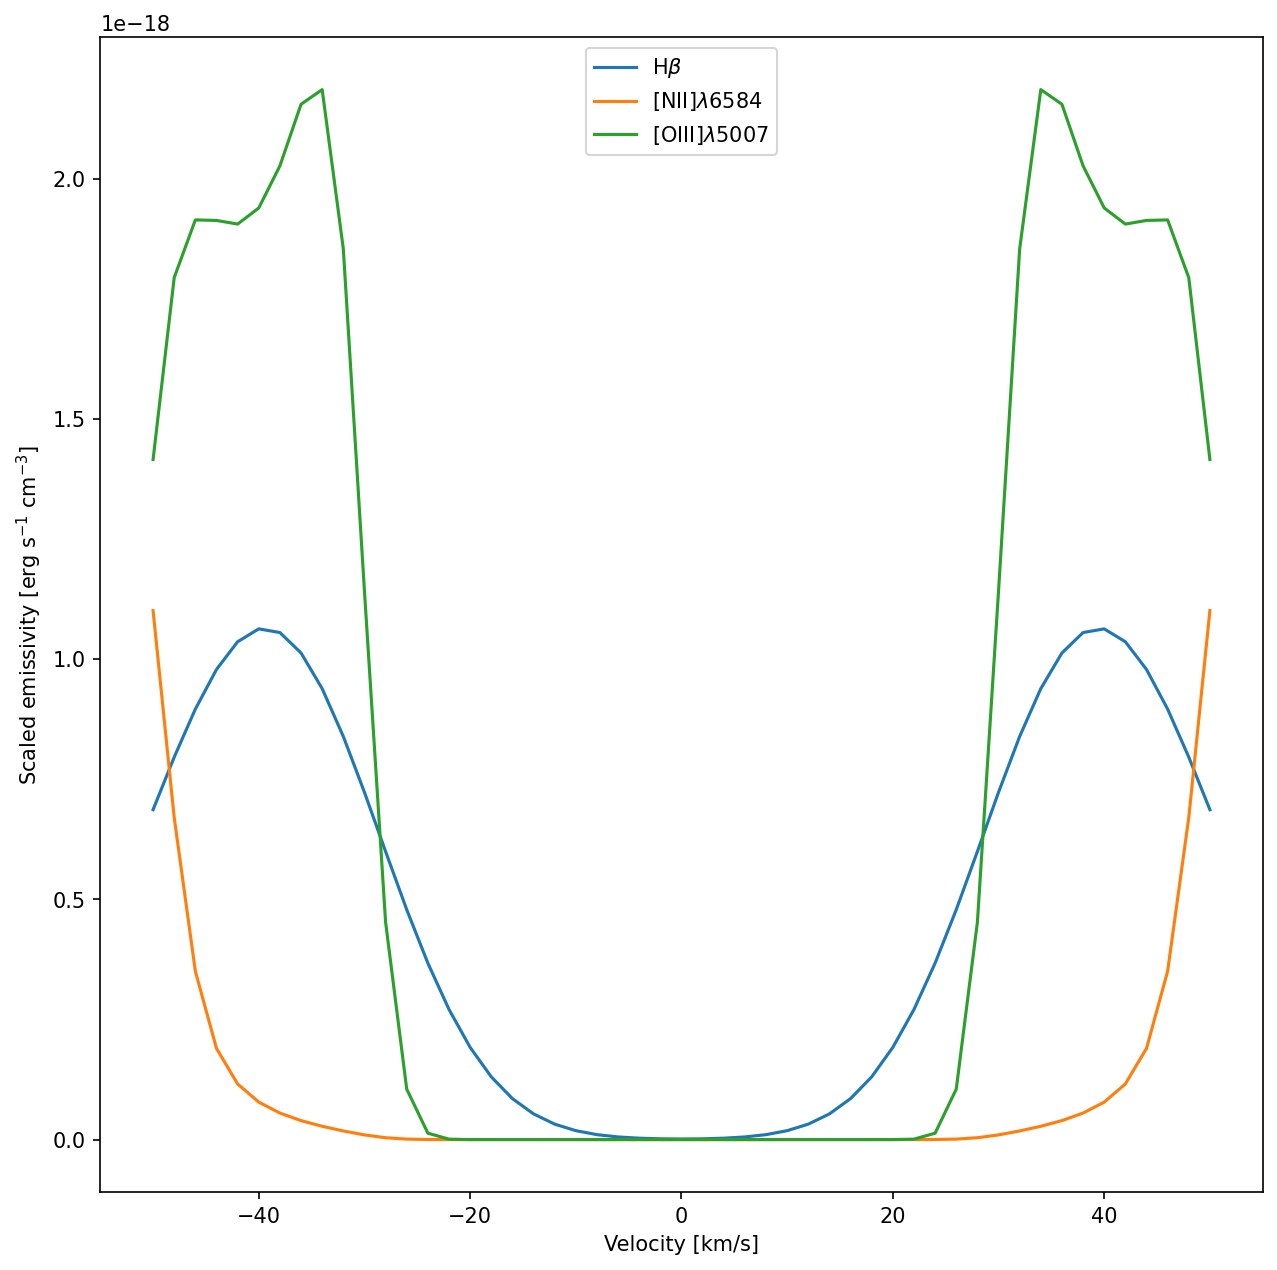
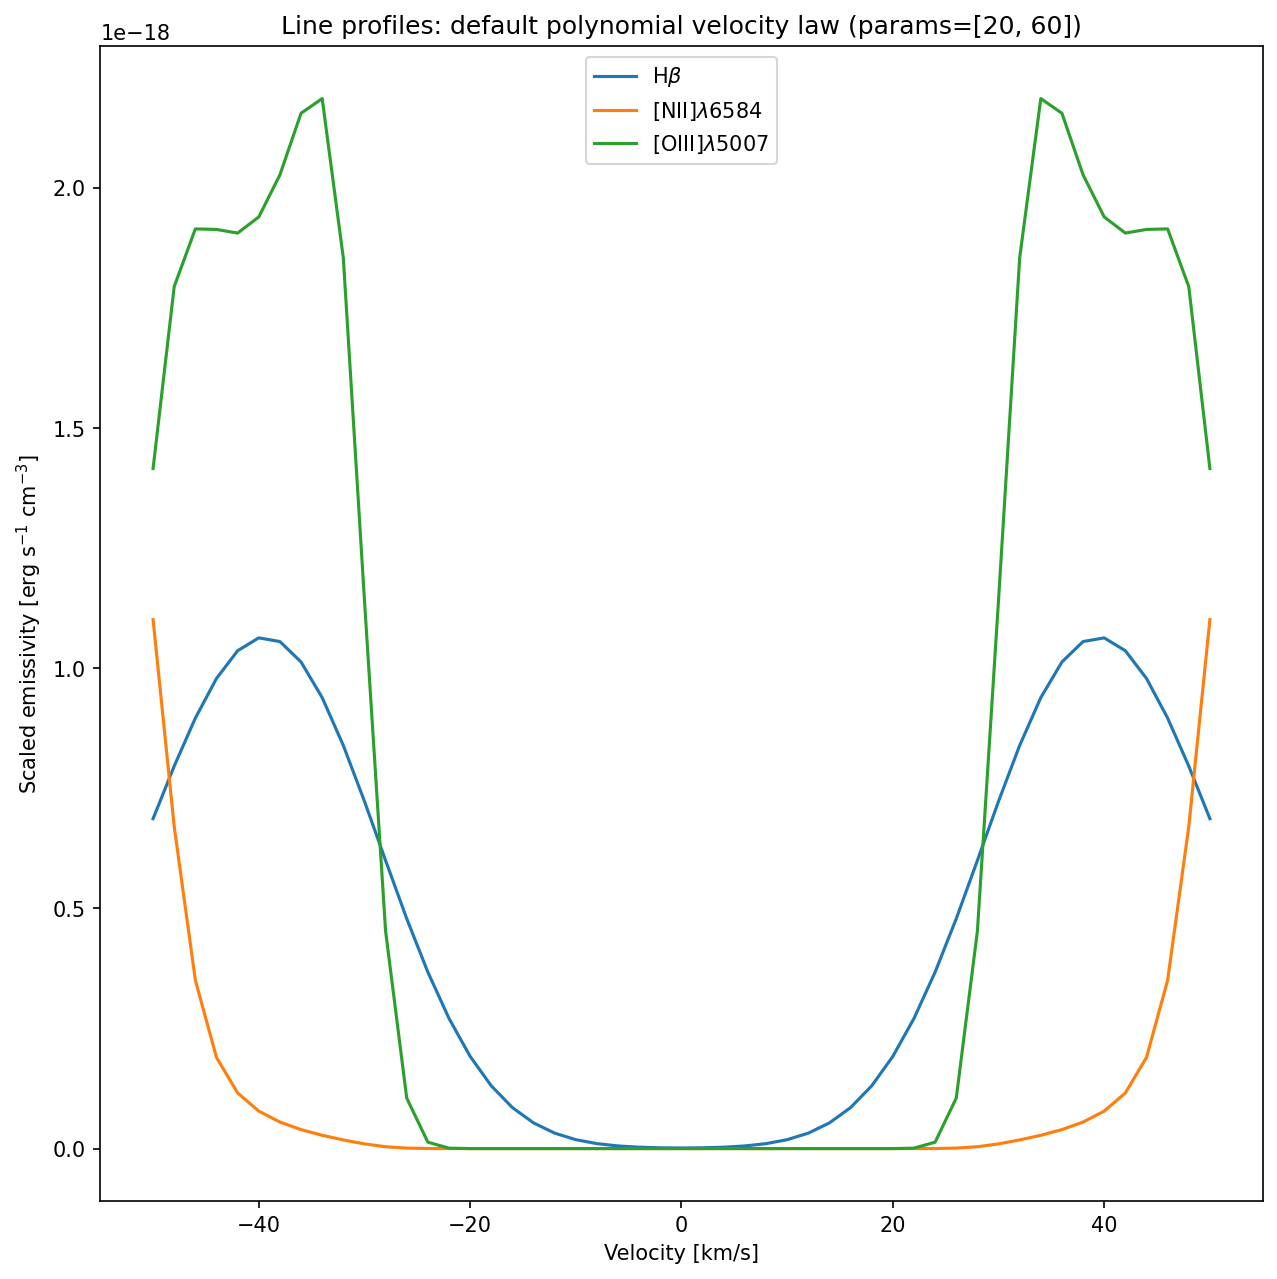
Clarify two line profile figures

diff --git a/python_examples/Using_pyCloudy_3_spherical_profiles/Using_pyCloudy_3_spherical_profiles.py b/python_examples/Using_pyCloudy_3_spherical_profiles/Using_pyCloudy_3_spherical_profiles.py
@@ -169,11 +169,12 @@ def set_user_velocity(m3d, radius_pc, velocity_kms):
     m3d.config_profile(size_spectrum=41, vel_max=max(25.0, float(np.max(np.abs(velocity_kms))) * 1.2), v_turb=0.01)
 
 
-def plot_profiles(m3d, x_pos, y_pos):
+def plot_profiles(m3d, x_pos, y_pos, title):
     axis = plt.gca()
     plt.plot(m3d.vel_tab, m3d.get_profile("H__1_486132A", axis="x")[:, x_pos, y_pos] * 5, label=r"H$\beta$")
     plt.plot(m3d.vel_tab, m3d.get_profile("N__2_658345A", axis="x")[:, x_pos, y_pos] * 5, label=r"[NII]$\lambda$6584")
     plt.plot(m3d.vel_tab, m3d.get_profile("O__3_500684A", axis="x")[:, x_pos, y_pos], label=r"[OIII]$\lambda$5007")
+    axis.set_title(title)
     axis.set_xlabel("Velocity [km/s]")
     axis.set_ylabel(r"Scaled emissivity [erg s$^{-1}$ cm$^{-3}$]")
     plt.legend()
@@ -325,13 +326,23 @@ m3d.config_profile(size_spectrum=51, vel_max=50.0, v_turb=0.01)
 n_cut = (DIM - 1) // 2
 
 plt.figure(figsize=(10, 10))
-plot_profiles(m3d, n_cut, n_cut)
+plot_profiles(
+    m3d,
+    n_cut,
+    n_cut,
+    "Line profiles: default polynomial velocity law (params=[20, 60])",
+)
 save_fig(plt.gcf(), fig_dir / "profile_default.png")
 
 set_user_velocity(m3d, radius_pc, velocity_kms)
 
 plt.figure(figsize=(10, 10))
-plot_profiles(m3d, n_cut, n_cut)
+plot_profiles(
+    m3d,
+    n_cut,
+    n_cut,
+    "Line profiles: user velocity profile from radial_profiles.csv",
+)
 save_fig(plt.gcf(), fig_dir / "profile_user_velocity.png")
 
 plt.figure(figsize=(15, 15))

diff --git a/docs/Using_pyCloudy_3_spherical_profiles.md b/docs/Using_pyCloudy_3_spherical_profiles.md
@@ -67,9 +67,15 @@ the original 3D example:
 
 ### Line Profiles
 
-![Default line profile](../python_examples/Using_pyCloudy_3_spherical_profiles/figures/profile_default.png)
+![Line profiles using the default polynomial velocity law](../python_examples/Using_pyCloudy_3_spherical_profiles/figures/profile_default.png)
 
-![User velocity line profile](../python_examples/Using_pyCloudy_3_spherical_profiles/figures/profile_user_velocity.png)
+![Line profiles using the user velocity profile](../python_examples/Using_pyCloudy_3_spherical_profiles/figures/profile_user_velocity.png)
+
+`profile_default.png` uses pyCloudy’s built-in polynomial velocity law with
+`params=[20, 60]`. `profile_user_velocity.png` uses the velocity values from
+`radial_profiles.csv`, interpolated onto the 3D model grid. Both figures show
+the same Hβ, [N II] λ6584, and [O III] λ5007 line profiles, so the difference
+is the velocity field used to calculate them.
 
 ### Derived Maps
 
